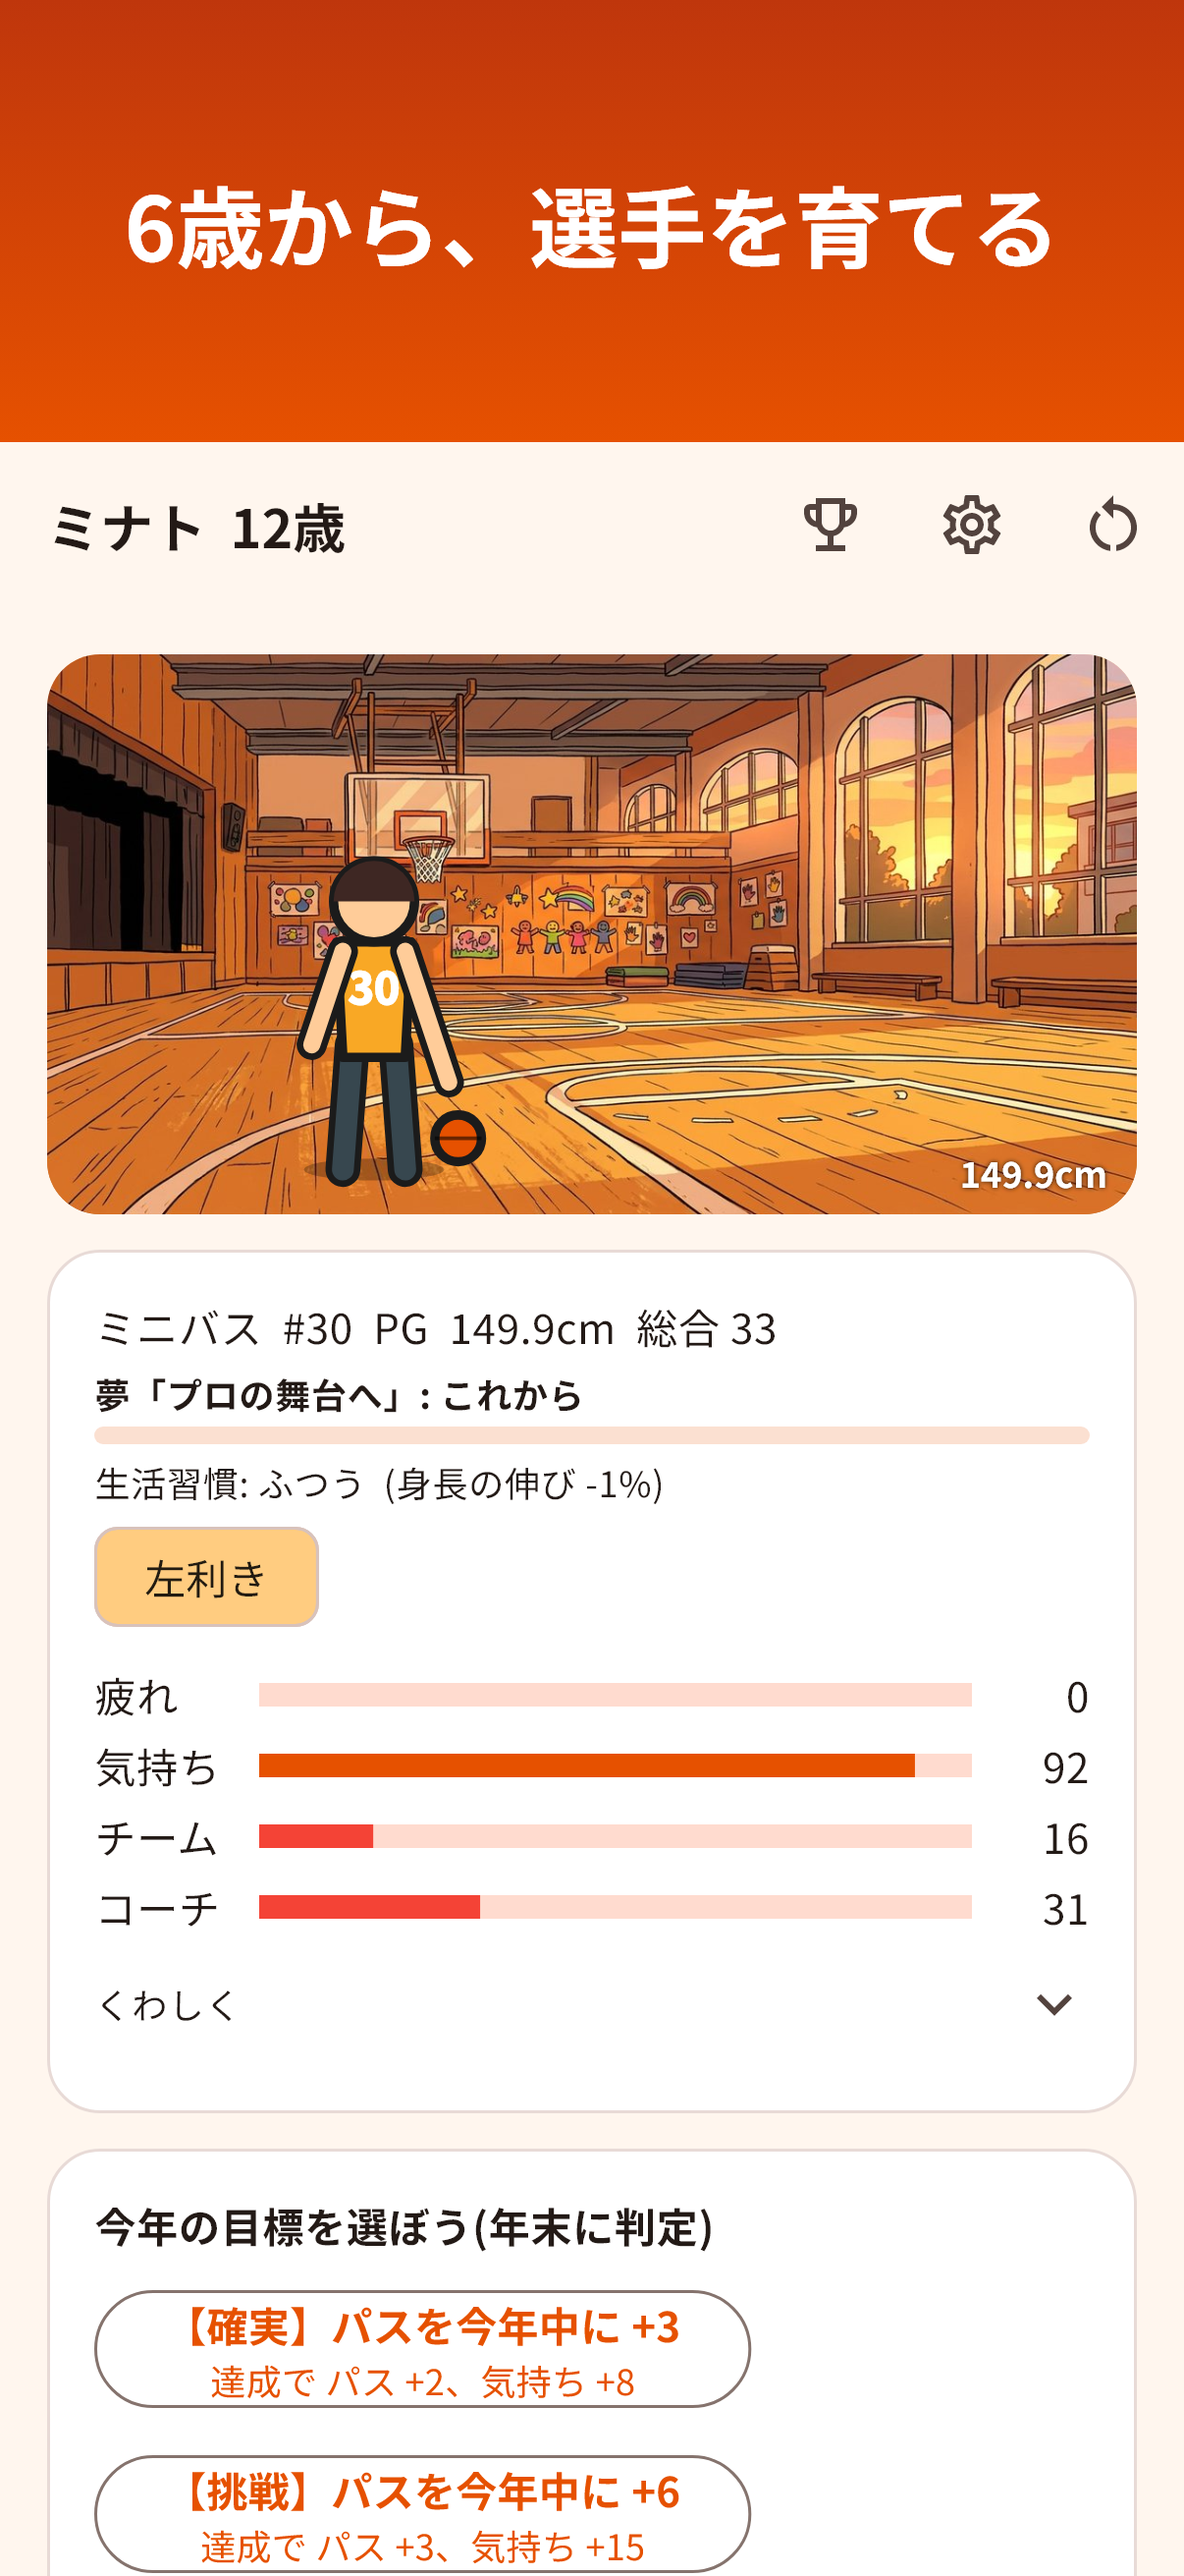
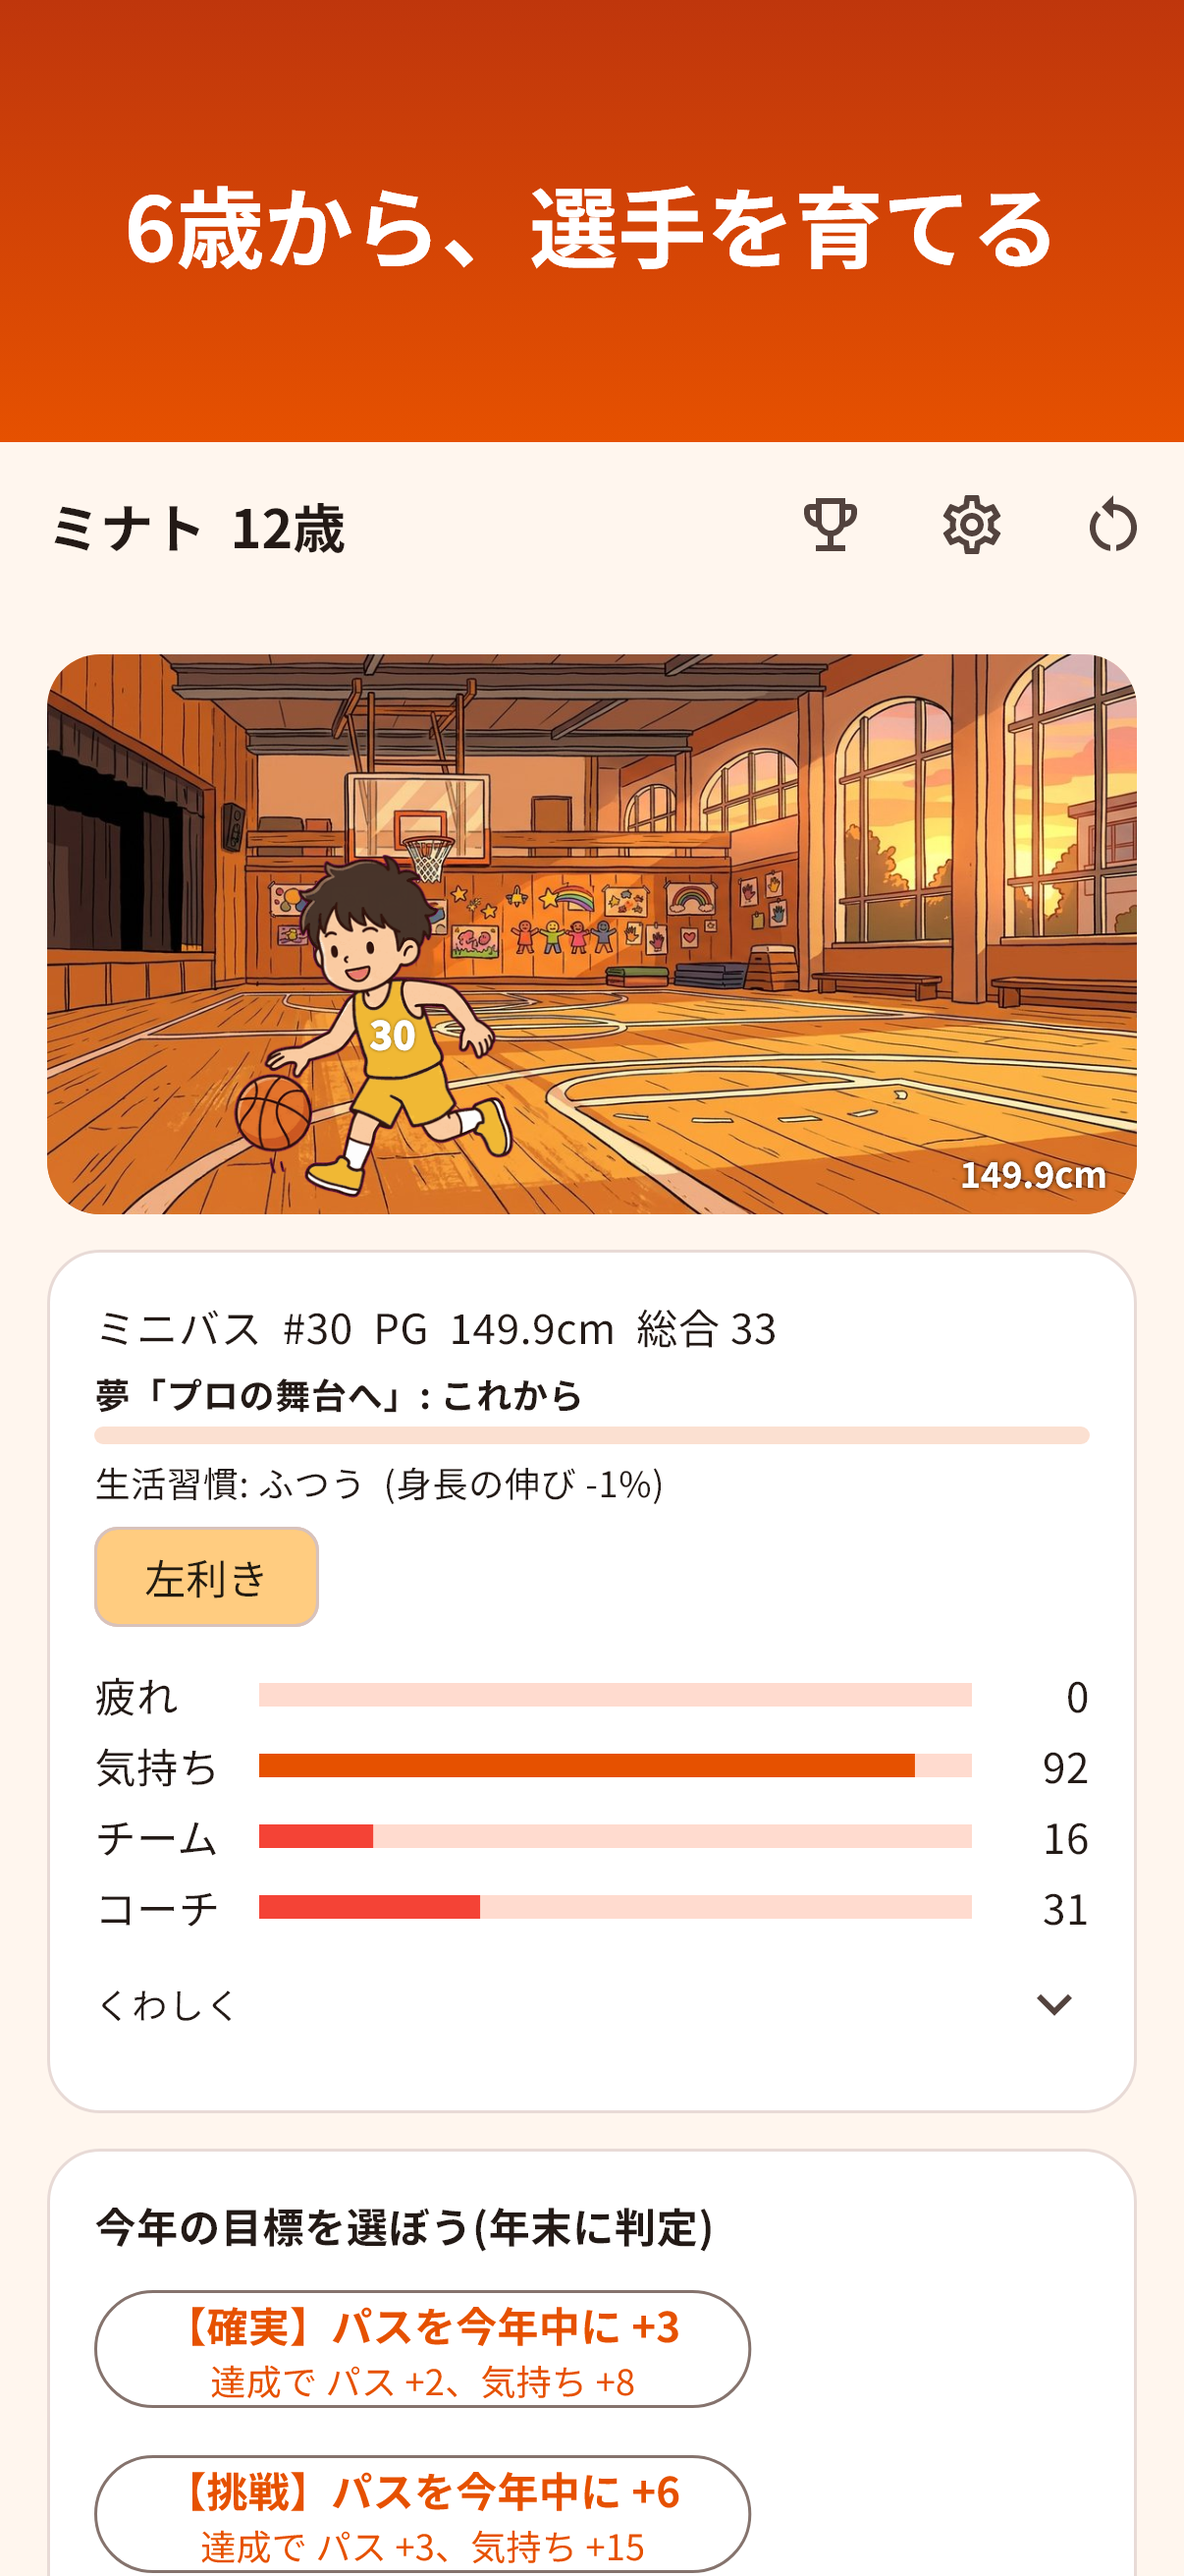
basketball-career: 選手の絵を Gemini 生成のイラストに作り直す(子ども・大人×ユニフォーム7色)
- 育成画面の選手を、コード描画の棒人間から Gemini 生成のドリブル姿に差し替え。12歳までは子ども、以降は大人の絵。assets/art/players/{kid,adult}_<色>.png(360px、パレット化で各約16KB)
- 青い無地のユニフォームの絵を、背景マゼンタを抜いたうえで色相だけ替えて 黄・青・赤・緑・青緑・紫・黒 の7色に(所属ごとの色。ライバルは黒を左右反転)。足元の影の線は除去
- 背番号は絵に入れず、胴の位置に文字で重ねる。絵が読み込めないときは枠の中にコード描画の選手が出る
- 絵の存在・色名・所属×年齢の組み合わせを art_assets_test で検査。掲載画像(iPhone・iPad)を撮り直し
- dart analyze と全410件が通る

影響範囲: projects/basketball-career のみ。TestFlight にはまだ上げない

Changed region(s): [[0.1841, 0.3089, 0.4295, 0.4634]]

diff --git a/projects/basketball-career/lib/ui/art/court.dart b/projects/basketball-career/lib/ui/art/court.dart
@@ -46,6 +46,7 @@ class CourtHeader extends StatelessWidget {
                   (frame == null && !sync) ? const SizedBox.shrink() : child,
               errorBuilder: (_, __, ___) => const SizedBox.shrink(),
             ),
+            _Sprites(game: game, versus: versus),
             CustomPaint(
               painter: _CourtPainter(
                 heightCm: game.player.heightCm,
@@ -79,7 +80,99 @@ String sceneAsset(Game g) {
   return 'assets/art/scene_$name.jpg';
 }
 
-enum _Layer { background, foreground }
+enum _Layer { background, foreground, fallback }
+
+/// 選手の絵の色名(`assets/art/players/<kid|adult>_<色>.png`)。`jerseyColor` と同じ分け方。
+String spriteColorName(Track t, int age) => switch (t) {
+      Track.school => age < 13 ? 'yellow' : age < 16 ? 'blue' : 'red',
+      Track.university => 'green',
+      Track.corporate => 'teal',
+      Track.pro => 'purple',
+    };
+
+/// 選手の絵(Gemini 生成)。12歳までは子ども、それ以降は大人の絵。大きさは身長に比例し、
+/// ユニフォームの色は所属で変わる(絵は青を色相で替えた7色)。背番号は絵の上に文字で重ねる。
+/// 絵が読み込めないときは、コードで描いた選手に戻る。
+class _Sprites extends StatelessWidget {
+  const _Sprites({required this.game, required this.versus});
+  final Game game;
+  final bool versus;
+
+  /// 絵の幅÷高さ(子ども・大人でほぼ同じ)。
+  static const _aspect = 0.815;
+
+  @override
+  Widget build(BuildContext context) {
+    final p = game.player;
+    final kind = p.age < 13 ? 'kid' : 'adult';
+    final color = spriteColorName(game.track, p.age);
+    return LayoutBuilder(builder: (context, c) {
+      final w = c.maxWidth, h = c.maxHeight;
+      final scale = (p.heightCm / 210).clamp(0.5, 1.05);
+      final figH = h * 0.86 * scale;
+      final bottom = h * 0.03;
+      // 絵が読み込めなかったとき、その選手の枠の中にコードで描いた選手を出す。
+      Widget fallback() => CustomPaint(
+            painter: _CourtPainter(
+              heightCm: 210,
+              jersey: jerseyColor(game.track, p.age),
+              slot: game.slot,
+              number: game.number,
+              layer: _Layer.fallback,
+            ),
+          );
+      Widget sprite(String name, double cx, double hh,
+          {bool flip = false, int number = 0}) {
+        final ww = hh * _aspect;
+        // 背番号の位置(胴の中心)。ポーズが違うので子ども・大人で変える。
+        final tx = kind == 'kid' ? 0.58 : 0.48;
+        final ty = kind == 'kid' ? 0.52 : 0.40;
+        return Positioned(
+          left: cx - ww / 2,
+          bottom: bottom,
+          width: ww,
+          height: hh,
+          child: Transform.flip(
+            flipX: flip,
+            child: Stack(children: [
+              Positioned.fill(
+                child: Image.asset(
+                  'assets/art/players/$name.png',
+                  fit: BoxFit.contain,
+                  alignment: Alignment.bottomCenter,
+                  frameBuilder: (context, child, frame, sync) =>
+                      (frame == null && !sync) ? const SizedBox.shrink() : child,
+                  errorBuilder: (_, __, ___) => fallback(),
+                ),
+              ),
+              if (number > 0 && !flip)
+                Align(
+                  alignment: Alignment(tx * 2 - 1, ty * 2 - 1),
+                  child: Text('$number',
+                      style: TextStyle(
+                          fontFamily: 'NotoSansJP',
+                          color: Colors.white,
+                          fontWeight: FontWeight.w900,
+                          fontSize: hh * 0.11,
+                          shadows: const [
+                            Shadow(color: Colors.black54, blurRadius: 2)
+                          ])),
+                ),
+            ]),
+          ),
+        );
+      }
+
+      return Stack(fit: StackFit.expand, children: [
+        sprite('${kind}_$color', w * (versus ? 0.22 : 0.30), figH,
+            number: game.number),
+        if (versus)
+          sprite('adult_dark', w * 0.52, h * 0.86 * 0.98,
+              flip: true),
+      ]);
+    });
+  }
+}
 
 /// 所属ごとのユニフォーム色。
 Color jerseyColor(Track t, int age) => switch (t) {
@@ -112,7 +205,11 @@ class _CourtPainter extends CustomPainter {
   void paint(Canvas canvas, Size size) {
     final w = size.width, h = size.height;
     if (layer == _Layer.foreground) {
-      _paintPlayers(canvas, size);
+      _paintOverlay(canvas, size);
+      return;
+    }
+    if (layer == _Layer.fallback) {
+      _paintFigures(canvas, size);
       return;
     }
 
@@ -173,8 +270,8 @@ class _CourtPainter extends CustomPainter {
 
   }
 
-  /// 絵(または下地)の上に、選手・VS・身長を重ねる。
-  void _paintPlayers(Canvas canvas, Size size) {
+  /// 選手の絵(`assets/art/players/`)が読み込めないときだけ使う、コードで描いた選手。
+  void _paintFigures(Canvas canvas, Size size) {
     final w = size.width, h = size.height;
     // 選手。身長 210cm のとき床から壁近くまで、115cm のとき小さく。
     final scale = (heightCm / 210).clamp(0.5, 1.05);
@@ -186,6 +283,13 @@ class _CourtPainter extends CustomPainter {
       // 向かい合うライバル(暗い色のユニフォーム、やや大きく)。
       _figure(canvas, Offset(w * 0.52, baseY), h * 0.78 * 0.98,
           color: const Color(0xFF263238), flip: true);
+    }
+  }
+
+  /// 絵の上に、VS と身長を重ねる。
+  void _paintOverlay(Canvas canvas, Size size) {
+    final w = size.width, h = size.height;
+    if (versus) {
       final tp = TextPainter(
         text: const TextSpan(
           text: 'VS',

diff --git a/projects/basketball-career/test/art_assets_test.dart b/projects/basketball-career/test/art_assets_test.dart
@@ -4,7 +4,9 @@ import 'dart:io';
 
 import 'package:basketball_career/game/life.dart';
 import 'package:basketball_career/game/match.dart';
+import 'package:basketball_career/game/game.dart';
 import 'package:basketball_career/game/season.dart';
+import 'package:basketball_career/ui/art/court.dart';
 import 'package:flutter_test/flutter_test.dart';
 
 void main() {
@@ -70,6 +72,25 @@ void main() {
               .existsSync(),
           isTrue,
           reason: '${lg.name} の会場の絵が無い');
+    }
+  });
+
+  test('選手の絵(子ども・大人×ユニフォーム7色)がそろい、所属ごとの色名で引ける', () {
+    for (final kind in ['kid', 'adult']) {
+      for (final color in ['yellow', 'blue', 'red', 'green', 'teal', 'purple', 'dark']) {
+        final f = File('assets/art/players/${kind}_$color.png');
+        expect(f.existsSync(), isTrue, reason: '${kind}_$color.png が無い');
+        expect(f.lengthSync(), lessThan(60 * 1024), reason: '${kind}_$color.png が重い');
+      }
+    }
+    expect(File('pubspec.yaml').readAsStringSync(), contains('assets/art/players/'));
+    // 所属×年齢の組み合わせすべてで、置いてある色名になる。
+    for (final t in Track.values) {
+      for (final age in [8, 14, 17, 20, 25, 35]) {
+        final name = spriteColorName(t, age);
+        expect(File('assets/art/players/adult_$name.png').existsSync(), isTrue,
+            reason: '$t $age 歳 → $name');
+      }
     }
   });
 

diff --git a/projects/basketball-career/CLAUDE.md b/projects/basketball-career/CLAUDE.md
@@ -148,7 +148,12 @@ baseball-manager の骨格（年齢で局面が変わる一代記・季節ごと
     **今年の伸び**: `Game.yearStart`（年のはじめの能力、保存あり）との差を、能力カードの値の横に緑の「+n」で出す。年末の結果に「今年の成長: 総合 52 → 58(+6) / いちばん伸びた能力 … / 身長 +…cm」（`lastYearSummary`、保存しない）。
   - **段階ごとの会場の絵**（2026-10-25、ユーザー指示「ゲームのグラフィックが未熟。Gemini で画像生成して向上」）: `assets/art/scene_{minibasket,junior,high,university,corporate,pro,abroad,national}.jpg`（1200x600・各約200KB）。`CourtHeader` が `sceneAsset(Game)` で選んで下地に敷き、選手(太い輪郭線付き)・VS・身長を重ねる。読み込み前・失敗時はコード描画の体育館。
     **Gemini の会話は画像を1枚出すと重くなり、操作が固まる**→ 1枚ごとに `gemini.google.com/app` を開き直す。送信は Enter ではなく送信ボタンをクリック（Enter は改行になることがある）。ダウンロードはボタンが効かないとき画像右上のアイコンを座標でクリック。
-    **次の候補**: 選手の絵がまだ棒人間風（Gemini の人物スプライトは背景を透過できないので、単色背景で出して Python で抜く案）。
+    **選手の絵**（2026-10-25、「作り直し」）: Gemini に「青い無地のユニフォーム・背景マゼンタ単色」で子ども(`kid`)と大人(`adult`)の1枚ずつ出させ、Python でマゼンタを抜いて(縁のかぶりを落とす・足元の影の線は太さで消す)、青のユニフォームだけ色相を替えて7色(yellow/blue/red/green/teal/purple/dark)にした
+    → `assets/art/players/{kid,adult}_<色>.png`（360px・パレット化で各約16KB、計約220KB）。12歳までは子ども、以降は大人。色は所属で変わる(`spriteColorName`、`jerseyColor` と同じ分け方)。ライバルは `adult_dark` を左右反転。
+    背番号は絵に入れず（Gemini は文字が崩れる）、胴の位置に文字で重ねる（`_Sprites`、子ども x.58 y.52／大人 x.48 y.40）。絵が読み込めないときは枠の中にコードで描いた選手が出る。
+    **落とし穴**: `Stack(fit: StackFit.expand)` の非 Positioned の子は、`width: 0` を渡しても強い制約で画面いっぱいに広がる（先読み用の Image が巨大な選手として出た）→ 先読みは使わず各 Image の errorBuilder で代わりを出す。
+    **Gemini は画面の反映が遅く、送信後30秒以上たってから出ることがある**。送信ボタン・Enter が効かないように見えても二重に送らず待つ。
+    **次の候補**: 動きのある別ポーズ(シュート・ディフェンス)を足し、勝負どころの選択で切り替える。
   - **課金アイテムの審査用スクリーンショット**（2026-10-25、`marketing/iap_review/remove_ads.png`、1206x2622）: 値段のボタン「広告を消す(￥370)」が写った設定画面。生成器 `tool/screenshots/capture_test.dart` に「課金アイテムの審査用」を足した（`--plain-name "課金アイテムの審査用"` で単体）。偽のストア `_PricedStore` が ¥370 を返す。
     **落とし穴**: 同梱フォント NotoSansJP には半角の「¥」(U+00A5)が無く、全角の「￥」(U+FFE5)はある → 画像で豆腐になった。値段の表示は `displayPrice` で「￥」にそろえる（実機は端末のフォントで補われるはずだが、どの環境でも字が出るように）。
   - **掲載文と掲載画像の更新**（2026-10-25）: `STORE_LISTING.md` の日本語（プロモーション・説明文）を新機能に合わせて書き直し、キーワードの「放置」（中身と合わない）を「ドラフト」に替えた（「ドラフト」は一般的な言葉なので検査の禁止語から外した。NBA 等の固有名詞は引き続き禁止）。
